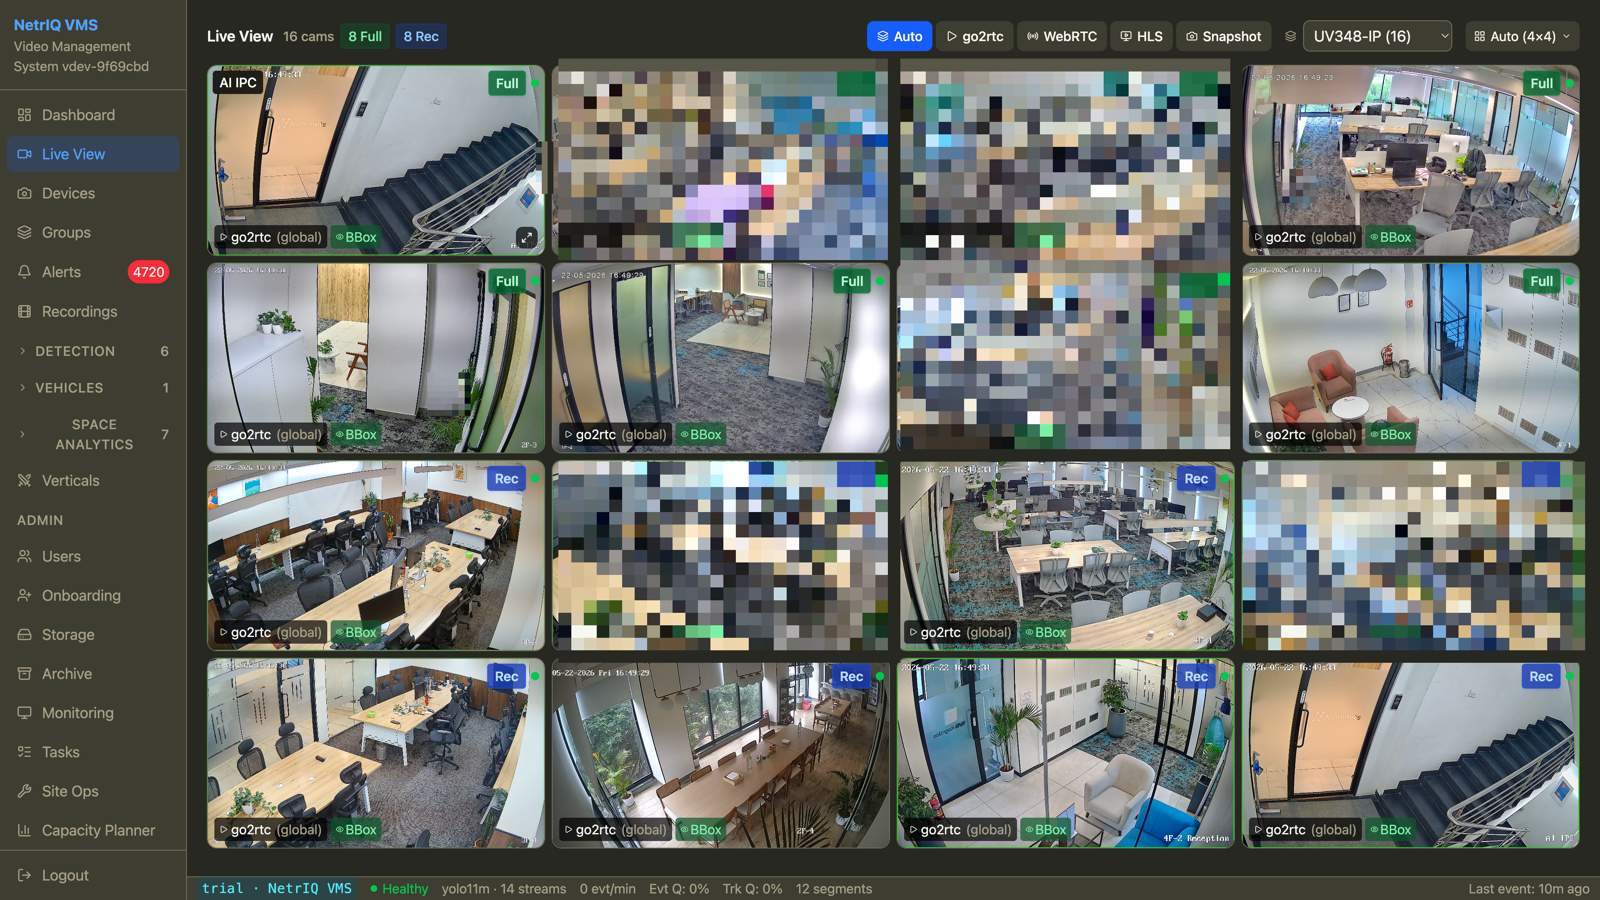
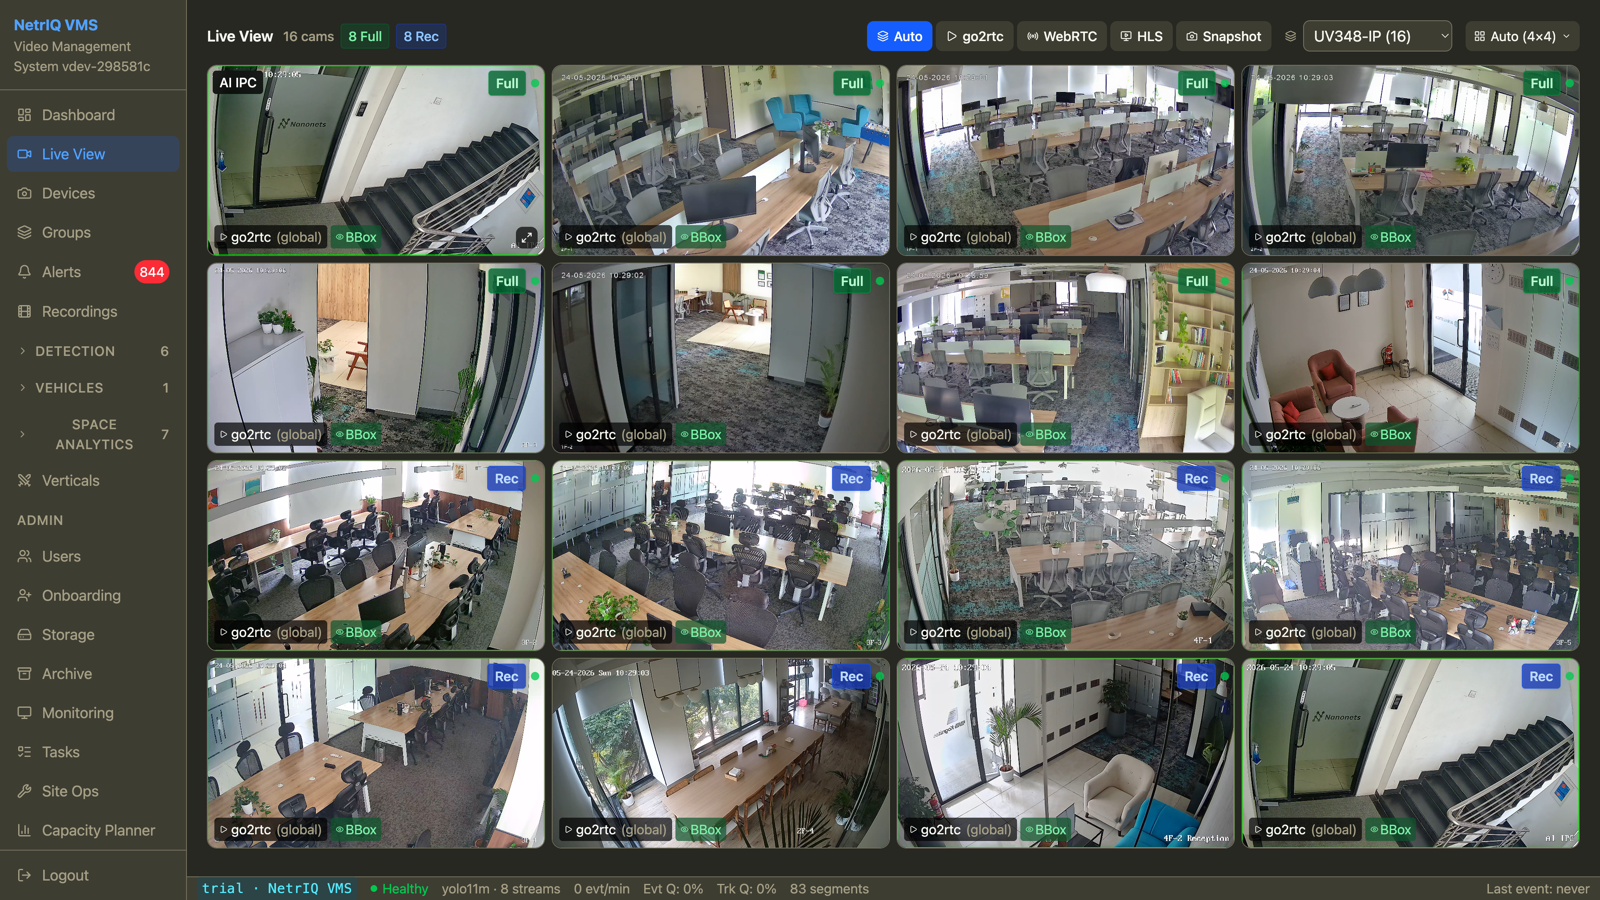
hero: refresh live wall — empty office scenes, no redaction needed (#11)
Re-captured the trial UV348-IP wall (16/16 online, 4x4, no spinner tiles)
at a low-occupancy moment — all tiles are empty office space, no people,
so no mosaic redaction. Replaces the prior tile-blurred frame. Cache-bump
to ?v=4 so clients fetch the new image.

diff --git a/index.html b/index.html
@@ -62,7 +62,7 @@
           <span class="cr-frame__live"><span class="cr-dot cr-dot--ok"></span> Live</span>
         </div>
         <div class="cr-shots" aria-label="NetrIQ product screens">
-          <img class="cr-shot is-active" src="/assets/img/live-view.png?v=3" data-screen="live-view" data-label="Unified live view" data-desc="every camera in one wall — sub-second WebRTC" alt="NetrIQ unified live view: multi-camera wall with detection overlays" />
+          <img class="cr-shot is-active" src="/assets/img/live-view.png?v=4" data-screen="live-view" data-label="Unified live view" data-desc="every camera in one wall — sub-second WebRTC" alt="NetrIQ unified live view: multi-camera wall with detection overlays" />
           <img class="cr-shot" src="/assets/img/dashboard.png?v=2" data-screen="dashboard" data-label="Operations dashboard" data-desc="detections by class, camera health, active alerts" alt="NetrIQ dashboard: detection counts by class, cameras online, active alerts" />
           <img class="cr-shot" src="/assets/img/events.png?v=2" data-screen="events" data-label="Detection events" data-desc="every detection, filtered to what matters" alt="NetrIQ event feed: detections filtered to what matters" />
           <img class="cr-shot" src="/assets/img/alerts.png?v=2" data-screen="alerts" data-label="Alerts" data-desc="rule-driven, routed to your team" alt="NetrIQ alerts: zone-rule and detection alerts routed to the team" />
